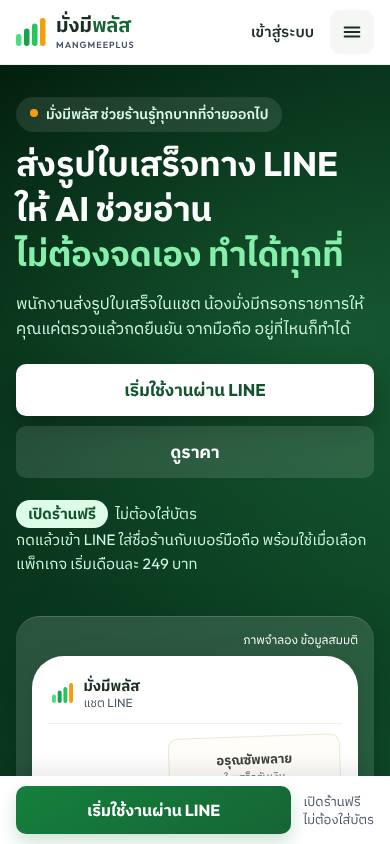
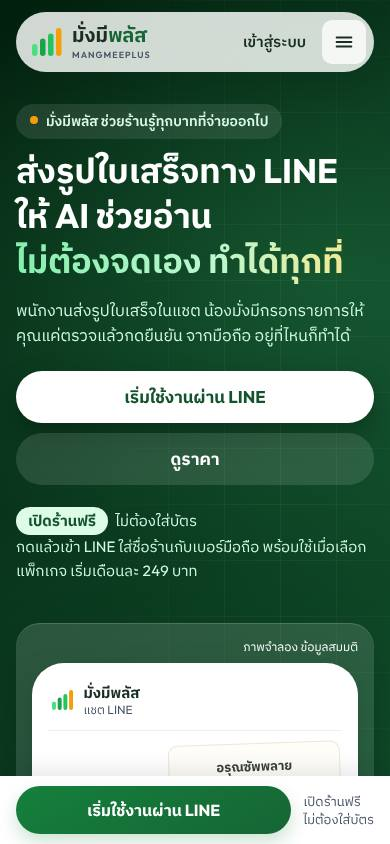
docs: v3 website moves to a modern style with a glass nav, pill controls and a bento grid
Floating glass pill nav over the hero, pill buttons, toggles and
eyebrows, 24px cards, a faint grid in the hero and dots on tinted
sections. The jobs, น้องมั่งมี and ENTERPRISE blocks become a bento
grid, with the ENTERPRISE tile showing its forms and catalog figures.

Claude-Session: https://claude.ai/code/session_01J7ScAcuHmAWY52w61WzGcF

diff --git a/docs/agent-memory/mangmee-main-website-prototype-2026-10-20.md b/docs/agent-memory/mangmee-main-website-prototype-2026-10-20.md
@@ -298,3 +298,14 @@ Decisions:
 - Hover: cards lift 6px with deeper shadow, icons scale/tilt, ask bubbles lift. All motion and lifts off under prefers-reduced-motion.
 Verification: Chromium 1440/390 no overflow; hero frames at 0.3/0.9/1.5/2.6 s show the sequence; hover on a plan card → matrix(...,-6); scroll test at 1440 (700px steps): 0 in-view sections left transparent at every step; reduced-motion full-page renders for evidence; tags balanced; canvas version 19.
 Limits: renderer is not the canvas runtime; Safari support for scroll-driven animation not checked (fallback shows content without the reveal).
+
+## Revision 3l — modern style
+
+Status: Complete — prototype only.
+Trigger: Owner: "ปรับให้เป็น style modern design".
+Decisions:
+- Floating glass pill nav (`.hdr` sticky top 12px with height 0, `.hdr-row` 82% white + backdrop blur); hero top padding 128 (104 phone) so the hero runs under it; mobile menu is a floating white card; `.sec` scroll-margin-top 84.
+- Pill shapes for buttons, period toggle and chooser options (deliberate departure from the app's 10px radius for the marketing site); pill eyebrows; card radius 24; h2 42.
+- Hero grid texture via masked ::before; gradient text (#86EFAC→#BBF7D0→#FDE68A) on the green headline line; dot texture on `.alt`.
+- Bento grid replaces the jobs row + full-width blocks: jobs span 2/6 each; น้องมั่งมี spans 4/6 (inner 2 columns, "ควรรู้" and asks full width); ENTERPRISE spans 2/6 as a tall dark tile with form pills and catalog figures (500 ใบ, 30 คน, 10 สาขา). One column under 1100px container width.
+Verification: Chromium 1440/390 no overflow (home 6643 / 12349; pricing 3153 / 5500); scroll test 0 transparent in-view sections; hover lift still -6px; canvas version 20.

diff --git a/docs/prototypes/mangmee-main-website/v3/README.md b/docs/prototypes/mangmee-main-website/v3/README.md
@@ -139,6 +139,13 @@
 - พื้นเขียวอ่อนเข้มขึ้น ไม่กลืนกับขาวแล้ว
 - คนที่ตั้งเครื่องให้ลดการเคลื่อนไหว จะไม่เห็นภาพเคลื่อนไหว
 
+### รอบ 12: สไตล์โมเดิร์น
+
+- เมนูด้านบนลอยเป็นแคปซูลกระจกโปร่งเหนือภาพแรก
+- ปุ่มทุกปุ่มเป็นทรงแคปซูล ป้ายเหนือหัวข้อเป็นแคปซูลเขียวจาง การ์ดมุมโค้งขึ้น
+- ภาพแรกมีเส้นตารางจาง ๆ หัวเรื่องบรรทัดเน้นไล่สีเขียวไปทอง ส่วนพื้นเขียวอ่อนมีลายจุด
+- ส่วน “ใช้ทำอะไรได้” เป็น bento grid กล่องขนาดต่างกัน กล่องแพ็กเกจธุรกิจสีเข้มแสดง 50 ทวิ ภ.ง.ด.3 ภ.ง.ด.53 และ 500 ใบ 30 คน 10 สาขา
+
 ## เรื่องที่รอคุณตัดสินใจ
 
 1. **ลิงก์เข้าสู่ระบบ** คุณให้ `app.mangmeeplus.com/login` แต่ระบบปัจจุบันใช้ `mangmeeplus.com/login` ตอนนี้ต้นแบบใช้ลิงก์ที่คุณให้ ต้องเลือกหนึ่งอัน
